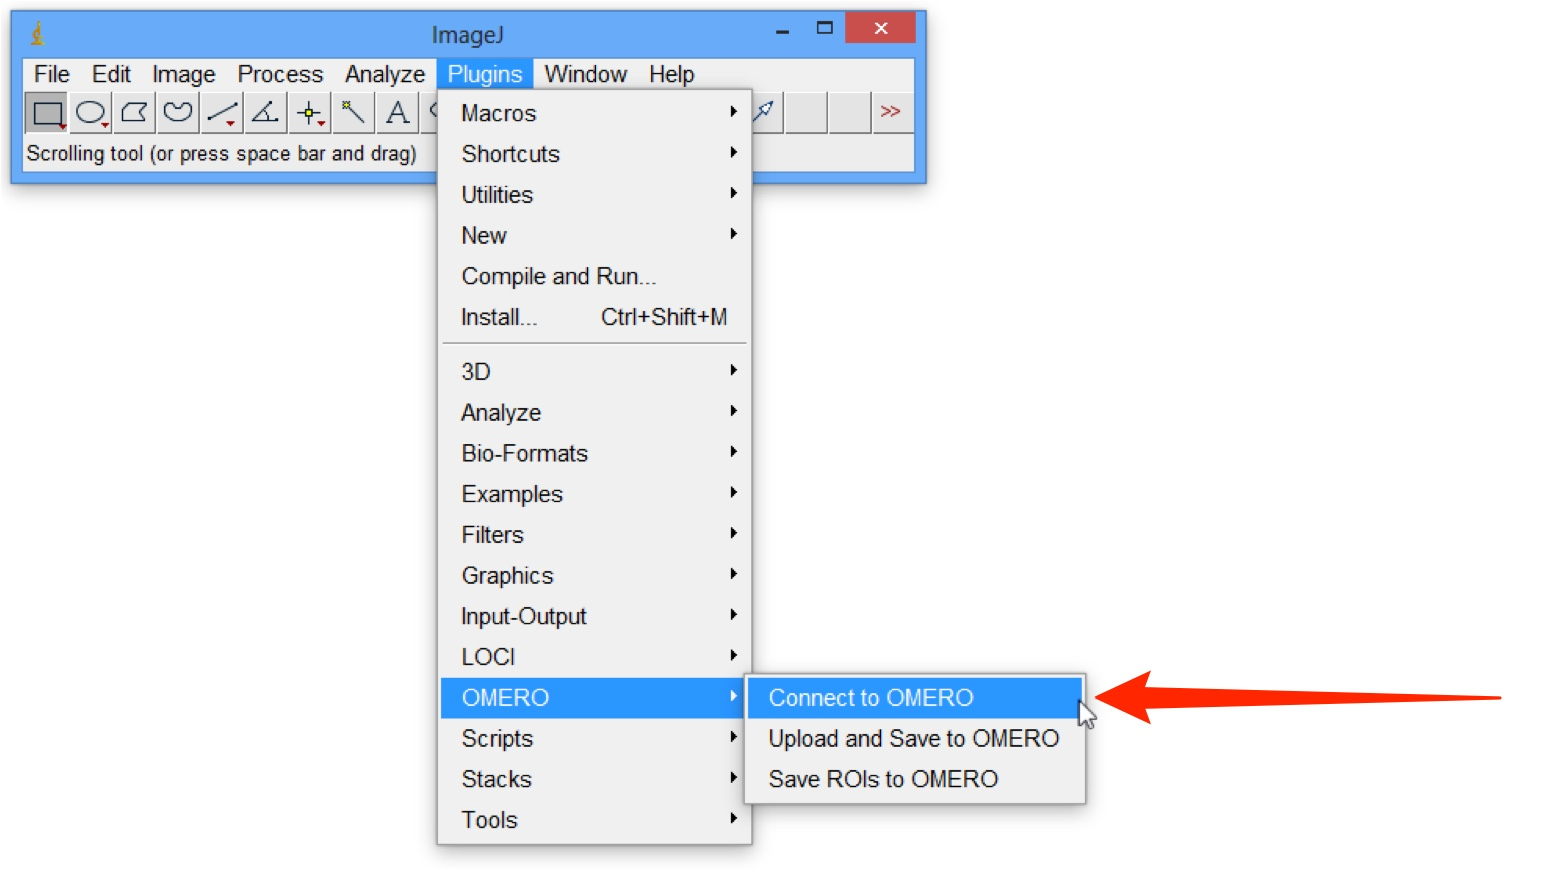
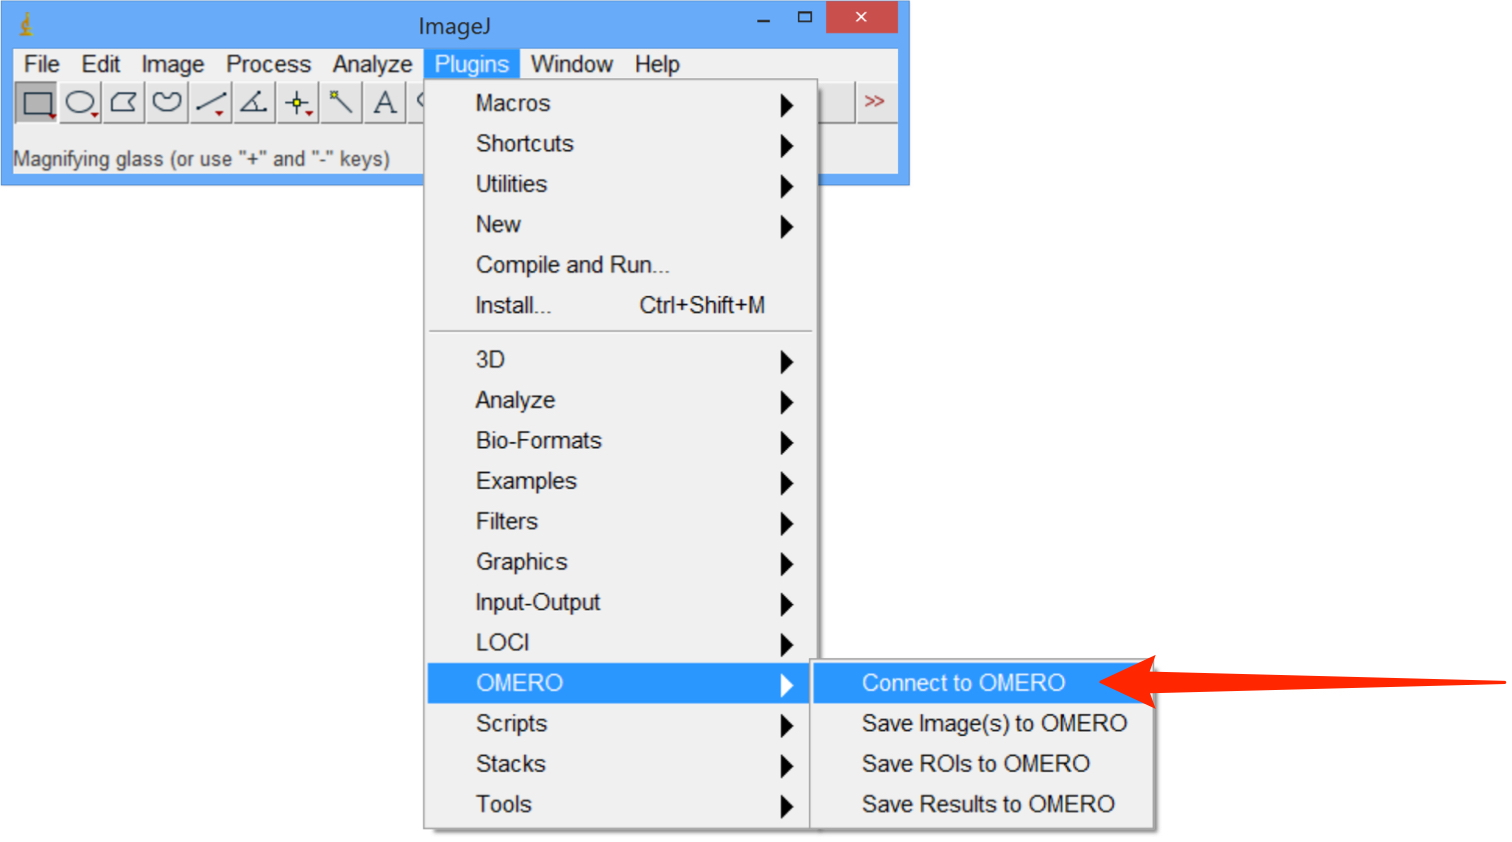
Updating save Menu images and test and tweaking layout

Changed region(s): [[0.0, 0.0, 0.9947, 1.0]]

diff --git a/imagej.html b/imagej.html
@@ -48,11 +48,11 @@ description: How to use OMERO.insight with ImageJ and Fiji to access data on an 
 
 <p>In order to connect to an OMERO server and use the data stored there directly in ImageJ and Fiji, plugins have to be installed. The following instructions guide you through the download, installation and use of ImageJ, Fiji and the plugins.</p>
 
+<p class="top_link"><a href="#top"><img src="images/back_to_top.png" alt="Image for link to top of page" style="float: right;"/></a></p>
+
 <div class="line-block">
 <div class="line"><br /></div>
 </div>
-
-<p class="top_link"><a href="#top"><img src="images/back_to_top.png" alt="Image for link to top of page" style="float: right;"/></a></p>
 
 <h2><a class="anchor" id="downloadImageJ"></a>Downloading and installing ImageJ</h2>
 
@@ -78,15 +78,11 @@ description: How to use OMERO.insight with ImageJ and Fiji to access data on an 
 
 </ol>
 
-<div class="line-block">
-<div class="line"><br /></div>
-</div>
-
-<div class="line-block">
-<div class="line"><br /></div>
-</div>
-
 <p class="top_link"><a href="#top"><img src="images/back_to_top.png" alt="Image for link to top of page" style="float: right;"/></a></p>
+
+<div class="line-block">
+<div class="line"><br /></div>
+</div>
 
 <h2><a class="anchor" id="downloadFuji"></a>Downloading and Installing Fiji</h2>
 
@@ -128,11 +124,11 @@ description: How to use OMERO.insight with ImageJ and Fiji to access data on an 
 
 </ol>
 
+<p class="top_link"><a href="#top"><img src="images/back_to_top.png" alt="Image for link to top of page" style="float: right;"/></a></p>
+
 <div class="line-block">
 <div class="line"><br /></div>
 </div>
-
-<p class="top_link"><a href="#top"><img src="images/back_to_top.png" alt="Image for link to top of page" style="float: right;"/></a></p>
 
 <h2><a class="anchor" id="plugins"></a>Installing Plugins for ImageJ and Fiji</h2>
 
@@ -177,11 +173,12 @@ description: How to use OMERO.insight with ImageJ and Fiji to access data on an 
 <div class="line"><br /></div>
 </div>
 
+<p class="top_link"><a href="#top"><img src="images/back_to_top.png" alt="Image for link to top of page" style="float: right;"/></a></p>
+
 <div class="line-block">
 <div class="line"><br /></div>
 </div>
 
-<p class="top_link"><a href="#top"><img src="images/back_to_top.png" alt="Image for link to top of page" style="float: right;"/></a></p>
 <!-- ImageJ 5 -->
 
 <h2><a class="anchor" id="imagej5"></a>Using ImageJ with OMERO version 5.1.x</h2>		
@@ -222,7 +219,13 @@ description: How to use OMERO.insight with ImageJ and Fiji to access data on an 
 </div>
 </li>
 
+<p class="top_link"><a href="#top"><img src="images/back_to_top.png" alt="Image for link to top of page" style="float: right;"/></a></p>
+
+<div class="line-block">
+<div class="line"><br /></div>
+</div>
 <li>
+
 <p class="first"><a class="anchor" id="screenshot2"></a>Download the latest 5.1.x version of the <span class="code-example">OMERO.insight-ij</span> plugin from:</p>
 
 <p><a href="http://downloads.openmicroscopy.org/latest/omero5" target="_blank" class="reference external">http://downloads.openmicroscopy.org/latest/omero5</a></p>
@@ -265,8 +268,12 @@ Check, and if this has happened, copy the inner <span class="code-example">OMERO
 
 </ol>
 
-
 <p class="top_link"><a href="#top"><img src="images/back_to_top.png" alt="Image for link to top of page" style="float: right;"/></a></p>
+
+<div class="line-block">
+<div class="line"><br /></div>
+</div>
+
 <!-- Fiji 5 -->
 
 <h2><a class="anchor" id="fiji5"></a>Using Fiji with OMERO version 5.1.x</h2>		
@@ -303,7 +310,6 @@ Check, and if this has happened, copy the inner <span class="code-example">OMERO
 <p>Click <span class="bold">Apply Changes</span>.</p>
 <p>Fiji will fetch and install the updates.</p>
 
-
 <div class="line-block">
 <div class="line"><br /></div>
 </div>
@@ -312,6 +318,12 @@ Check, and if this has happened, copy the inner <span class="code-example">OMERO
 <div class="line"><br /></div>
 </div>
 </li>
+
+<p class="top_link"><a href="#top"><img src="images/back_to_top.png" alt="Image for link to top of page" style="float: right;"/></a></p>
+
+<div class="line-block">
+<div class="line"><br /></div>
+</div>
 
 <li><p class="first">Download the latest 5.1.x version of the <span class="code-example">OMERO.insight-ij</span> plugin from:</p>
 <p><a href="http://downloads.openmicroscopy.org/latest/omero5" target="_blank" class="reference external">http://downloads.openmicroscopy.org/latest/omero5</a></p>
@@ -355,6 +367,10 @@ Check, and if this has happened, copy the inner <span class="code-example">OMERO
 </ol>
 
 <p class="top_link"><a href="#top"><img src="images/back_to_top.png" alt="Image for link to top of page" style="float: right;"/></a></p>
+
+<div class="line-block">
+<div class="line"><br /></div>
+</div>
 
 <h2><a class="anchor" id="access"></a>Accessing OMERO using ImageJ and Fiji</h2>
 
@@ -404,7 +420,14 @@ Check, and if this has happened, copy the inner <span class="code-example">OMERO
 <div class="line-block">
 <div class="line"><br /></div>
 </div>
+
 </li>
+
+<p class="top_link"><a href="#top"><img src="images/back_to_top.png" alt="Image for link to top of page" style="float: right;"/></a></p>
+
+<div class="line-block">
+<div class="line"><br /></div>
+</div>
 
 <li>
 <p class="first">Double click on the image in the data tree or select the image and <span class="bold">View &gt; View in ImageJ</span> in the contextual menu.</p>
@@ -434,6 +457,10 @@ Check, and if this has happened, copy the inner <span class="code-example">OMERO
 
 <p><a href="#top"><img src="images/back_to_top.png" alt="Image for link to top of page" style="float: right;"/></a></p>
 
+<div class="line-block">
+<div class="line"><br /></div>
+</div>
+
 <h2><a class="anchor" id="save"></a>Saving images from ImageJ to OMERO</h2>
 
 <p>With OMERO version 5.1, it is possible to save images directly from ImageJ or Fiji to your OMERO server.</p>
@@ -444,7 +471,7 @@ Check, and if this has happened, copy the inner <span class="code-example">OMERO
 
 <p>Select:</p>
 
-<p class="indent1"> <span class="bold">Plugins > OMERO > Upload and Save to OMERO</span>.</p>
+<p class="indent1"> <span class="bold">Plugins > OMERO > Save Images(s) to OMERO</span>.</p>
 
 <p>A version of OMERO.insight will open automatically.</p>
 
@@ -481,6 +508,10 @@ Check, and if this has happened, copy the inner <span class="code-example">OMERO
 
 <p class="top_link"><a href="#top"><img src="images/back_to_top.png" alt="Image for link to top of page" style="float: right;"/></a></p>
 
+<div class="line-block">
+<div class="line"><br /></div>
+</div>
+
 <h2><a class="anchor" id="rois"></a>Saving ROIs drawn in ImageJ to OMERO</h2>
 
 <ul>
@@ -491,7 +522,7 @@ Check, and if this has happened, copy the inner <span class="code-example">OMERO
 
 <p>If the image is from a local disk select:</p>
 
-<p class="indent1"> <span class="bold">Plugins > OMERO > Upload and Save to OMERO</span>.</p>
+<p class="indent1"> <span class="bold">Plugins > OMERO > Save Images(s) to OMERO</span>.</p>
 
 <p>A version of OMERO.insight will open automatically and the image, including the ROIs, will be imported.</p>
 
@@ -502,6 +533,12 @@ Check, and if this has happened, copy the inner <span class="code-example">OMERO
 <p>Once saved to the OMERO.server the ROIs become standard OMERO ROIs and can be used as normal.</p>
 
 <p>Any existing ROIs on an image in the OMERO server will be displayed and can be manipulated as normal in ImageJ.</p>
+
+<p>To save analysis results back to OMERO select:</p>
+
+<p class="indent1"> <span class="bold">Plugins > OMERO > Save Results to OMERO</span>.</p>
+
+<p>The results will be uploaded and attached to the image in OMERO as a CVS file.</p>
 
 </ul>
 
@@ -523,6 +560,10 @@ Check, and if this has happened, copy the inner <span class="code-example">OMERO
 </div>
 
 <p class="top_link"><a href="#top"><img src="images/back_to_top.png" alt="Image for link to top of page" style="float: right;"/></a></p>
+
+<div class="line-block">
+<div class="line"><br /></div>
+</div>
 
 <h2><a class="anchor" id="upgradeimagej"></a>Upgrading ImageJ from 4.4.x to 5.1.x</h2>		
 
